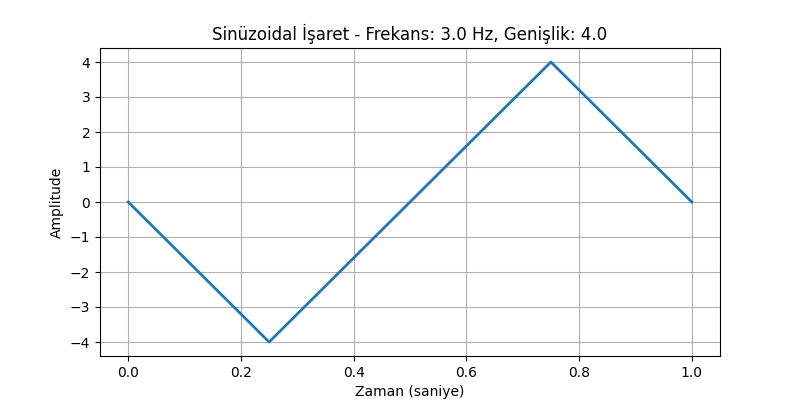
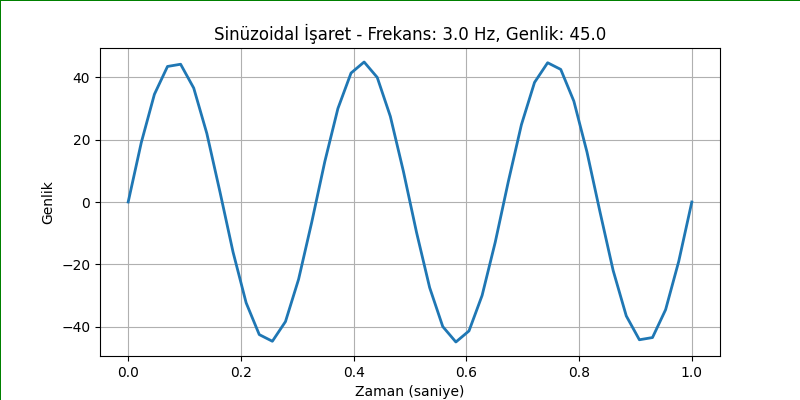
update formulas

diff --git a/templates/frekans.html b/templates/frekans.html
@@ -19,7 +19,7 @@ endblock %} {% block content %}
       <div class="field">
         <div class="ui left icon input">
           <i class="exchange alternate icon"></i>
-          <input placeholder="Genişlik Girin" type="text" name="genislik" />
+          <input placeholder="Genlik Girin" type="text" name="genlik" />
         </div>
       </div>
       <div class="field">

diff --git a/app.py b/app.py
@@ -24,23 +24,23 @@ def arrange():
 def resultfreqency():
     if request.method == 'POST':
         frekans = request.form.get("frekans")
-        genislik = request.form.get("genislik")
+        genlik = request.form.get("genlik")
         ornek_sayisi = request.form.get("ornek_sayisi")
 
-        if frekans is not None and genislik is not None and ornek_sayisi is not None:
+        if frekans is not None and genlik is not None and ornek_sayisi is not None:
             frekans = float(frekans)
-            genislik = float(genislik)
+            genlik = float(genlik)
             ornek_sayisi = int(ornek_sayisi)
 
             zaman = np.linspace(0, 1, ornek_sayisi)
-            sinuzoid = genislik * np.sin(2 * np.pi * frekans * zaman)
+            sinuzoid = genlik * np.sin(2 * np.pi * frekans * zaman)
 
-            plt.figure(figsize=(8, 4))
+            plt.figure(figsize=(8, 4), dpi=100)
             plt.plot(zaman, sinuzoid, lw=2)
             plt.title(
-                f"Sinüzoidal İşaret - Frekans: {frekans} Hz, Genişlik: {genislik}")
+                f"Sinüzoidal İşaret - Frekans: {frekans} Hz, Genlik: {genlik}")
             plt.xlabel("Zaman (saniye)")
-            plt.ylabel("Amplitude")
+            plt.ylabel("Genlik")
             plt.grid(True)
             plt.savefig("static/sinuzoid-frequency.png")
             plt.close()
